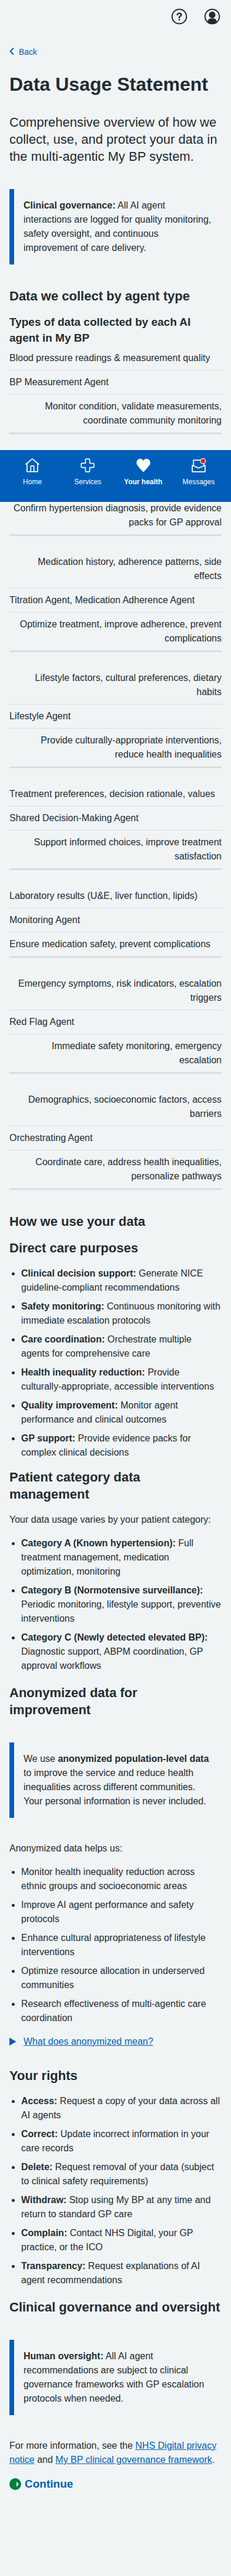
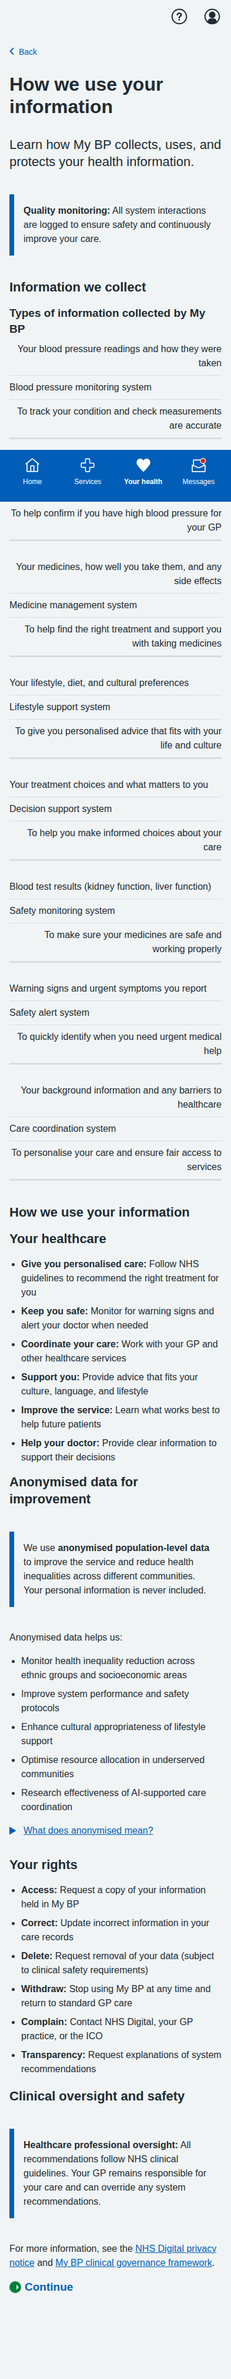
Update data usage and disclaimer pages with patient-friendly language and fixed alignment

Changed region(s): [[0.0, 0.0, 1.0, 0.9668]]

diff --git a/prototype/v1/app/views/pages/mybp/onboarding/data-usage.html b/prototype/v1/app/views/pages/mybp/onboarding/data-usage.html
@@ -1,7 +1,7 @@
 {% extends 'layout-app.html' %}
 
 {% set hub = "Your health" %}
-{% set pageHeading = "Data Usage Statement" %}
+{% set pageHeading = "How we use your information" %}
 
 {% block beforeContent %}
   {{ backLink({
@@ -15,139 +15,129 @@
     <div class="nhsuk-grid-column-two-thirds">
 
       <h1 class="nhsuk-heading-xl">
-        Data Usage Statement
+        How we use your information
       </h1>
 
       <p class="nhsuk-lede-text">
-        Overview of how we collect, use, and protect your information in My BP.
+        Learn how My BP collects, uses, and protects your health information.
       </p>
 
       <div class="nhsuk-inset-text">
         <span class="nhsuk-u-visually-hidden">Information: </span>
-        <p><strong>Clinical governance:</strong> All AI agent interactions are logged for quality monitoring, safety oversight, and continuous improvement of care delivery.</p>
+        <p><strong>Quality monitoring:</strong> All system interactions are logged to ensure safety and continuously improve your care.</p>
       </div>
 
-      <h2 class="nhsuk-heading-m">Data we collect by agent type</h2>
+      <h2 class="nhsuk-heading-m">Information we collect</h2>
 
       <div class="nhsuk-table-responsive">
         <table class="nhsuk-table">
-          <caption class="nhsuk-table__caption">Types of data collected by each AI agent in My BP</caption>
+          <caption class="nhsuk-table__caption">Types of information collected by My BP</caption>
           <thead role="rowgroup" class="nhsuk-table__head">
             <tr role="row">
               <th role="columnheader" class="" scope="col">
-                Data type
+                What we collect
               </th>
               <th role="columnheader" class="" scope="col">
-                Collecting agent
+                Who collects it
               </th>
               <th role="columnheader" class="" scope="col">
-                Purpose
+                Why we need it
               </th>
             </tr>
           </thead>
           <tbody class="nhsuk-table__body">
             <tr role="row" class="nhsuk-table__row">
-              <td class="nhsuk-table__cell">Blood pressure readings & measurement quality</td>
-              <td class="nhsuk-table__cell">BP Measurement Agent</td>
-              <td class="nhsuk-table__cell">Monitor condition, validate measurements, coordinate community monitoring</td>
+              <td class="nhsuk-table__cell">Your blood pressure readings and how they were taken</td>
+              <td class="nhsuk-table__cell">Blood pressure monitoring system</td>
+              <td class="nhsuk-table__cell">To track your condition and check measurements are accurate</td>
             </tr>
             <tr role="row" class="nhsuk-table__row">
-              <td class="nhsuk-table__cell">24-hour ABPM data & diagnostic evidence</td>
-              <td class="nhsuk-table__cell">Diagnosing Agent</td>
-              <td class="nhsuk-table__cell">Confirm hypertension diagnosis, provide evidence packs for GP approval</td>
+              <td class="nhsuk-table__cell">24-hour blood pressure monitoring results</td>
+              <td class="nhsuk-table__cell">Diagnostic support system</td>
+              <td class="nhsuk-table__cell">To help confirm if you have high blood pressure for your GP</td>
             </tr>
             <tr role="row" class="nhsuk-table__row">
-              <td class="nhsuk-table__cell">Medication history, adherence patterns, side effects</td>
-              <td class="nhsuk-table__cell">Titration Agent, Medication Adherence Agent</td>
-              <td class="nhsuk-table__cell">Optimize treatment, improve adherence, prevent complications</td>
+              <td class="nhsuk-table__cell">Your medicines, how well you take them, and any side effects</td>
+              <td class="nhsuk-table__cell">Medicine management system</td>
+              <td class="nhsuk-table__cell">To help find the right treatment and support you with taking medicines</td>
             </tr>
             <tr role="row" class="nhsuk-table__row">
-              <td class="nhsuk-table__cell">Lifestyle factors, cultural preferences, dietary habits</td>
-              <td class="nhsuk-table__cell">Lifestyle Agent</td>
-              <td class="nhsuk-table__cell">Provide culturally-appropriate interventions, reduce health inequalities</td>
+              <td class="nhsuk-table__cell">Your lifestyle, diet, and cultural preferences</td>
+              <td class="nhsuk-table__cell">Lifestyle support system</td>
+              <td class="nhsuk-table__cell">To give you personalised advice that fits with your life and culture</td>
             </tr>
             <tr role="row" class="nhsuk-table__row">
-              <td class="nhsuk-table__cell">Treatment preferences, decision rationale, values</td>
-              <td class="nhsuk-table__cell">Shared Decision-Making Agent</td>
-              <td class="nhsuk-table__cell">Support informed choices, improve treatment satisfaction</td>
+              <td class="nhsuk-table__cell">Your treatment choices and what matters to you</td>
+              <td class="nhsuk-table__cell">Decision support system</td>
+              <td class="nhsuk-table__cell">To help you make informed choices about your care</td>
             </tr>
             <tr role="row" class="nhsuk-table__row">
-              <td class="nhsuk-table__cell">Laboratory results (U&E, liver function, lipids)</td>
-              <td class="nhsuk-table__cell">Monitoring Agent</td>
-              <td class="nhsuk-table__cell">Ensure medication safety, prevent complications</td>
+              <td class="nhsuk-table__cell">Blood test results (kidney function, liver function)</td>
+              <td class="nhsuk-table__cell">Safety monitoring system</td>
+              <td class="nhsuk-table__cell">To make sure your medicines are safe and working properly</td>
             </tr>
             <tr role="row" class="nhsuk-table__row">
-              <td class="nhsuk-table__cell">Emergency symptoms, risk indicators, escalation triggers</td>
-              <td class="nhsuk-table__cell">Red Flag Agent</td>
-              <td class="nhsuk-table__cell">Immediate safety monitoring, emergency escalation</td>
+              <td class="nhsuk-table__cell">Warning signs and urgent symptoms you report</td>
+              <td class="nhsuk-table__cell">Safety alert system</td>
+              <td class="nhsuk-table__cell">To quickly identify when you need urgent medical help</td>
             </tr>
             <tr role="row" class="nhsuk-table__row">
-              <td class="nhsuk-table__cell">Demographics, socioeconomic factors, access barriers</td>
-              <td class="nhsuk-table__cell">Orchestrating Agent</td>
-              <td class="nhsuk-table__cell">Coordinate care, address health inequalities, personalize pathways</td>
+              <td class="nhsuk-table__cell">Your background information and any barriers to healthcare</td>
+              <td class="nhsuk-table__cell">Care coordination system</td>
+              <td class="nhsuk-table__cell">To personalise your care and ensure fair access to services</td>
             </tr>
           </tbody>
         </table>
       </div>
 
-      <h2 class="nhsuk-heading-m">How we use your data</h2>
+      <h2 class="nhsuk-heading-m">How we use your information</h2>
 
       <div class="nhsuk-care-card nhsuk-care-card--non-urgent">
         <div class="nhsuk-care-card__heading-container">
           <h3 class="nhsuk-care-card__heading">
             <span role="text">
-              <span class="nhsuk-u-visually-hidden">Information: </span>Direct care purposes
+              <span class="nhsuk-u-visually-hidden">Information: </span>Your healthcare
             </span>
           </h3>
           <span class="nhsuk-care-card__arrow" aria-hidden="true"></span>
         </div>
         <div class="nhsuk-care-card__content">
           <ul class="nhsuk-list nhsuk-list--bullet">
-            <li><strong>Clinical decision support:</strong> Generate NICE guideline-compliant recommendations</li>
-            <li><strong>Safety monitoring:</strong> Continuous monitoring with immediate escalation protocols</li>
-            <li><strong>Care coordination:</strong> Orchestrate multiple agents for comprehensive care</li>
-            <li><strong>Health inequality reduction:</strong> Provide culturally-appropriate, accessible interventions</li>
-            <li><strong>Quality improvement:</strong> Monitor agent performance and clinical outcomes</li>
-            <li><strong>GP support:</strong> Provide evidence packs for complex clinical decisions</li>
+            <li><strong>Give you personalised care:</strong> Follow NHS guidelines to recommend the right treatment for you</li>
+            <li><strong>Keep you safe:</strong> Monitor for warning signs and alert your doctor when needed</li>
+            <li><strong>Coordinate your care:</strong> Work with your GP and other healthcare services</li>
+            <li><strong>Support you:</strong> Provide advice that fits your culture, language, and lifestyle</li>
+            <li><strong>Improve the service:</strong> Learn what works best to help future patients</li>
+            <li><strong>Help your doctor:</strong> Provide clear information to support their decisions</li>
           </ul>
         </div>
       </div>
 
-      <h2 class="nhsuk-heading-m">Patient category data management</h2>
-
-      <p>Your data usage varies by your patient category:</p>
-
-      <ul class="nhsuk-list nhsuk-list--bullet">
-        <li><strong>Category A (Known hypertension):</strong> Full treatment management, medication optimization, monitoring</li>
-        <li><strong>Category B (Normotensive surveillance):</strong> Periodic monitoring, lifestyle support, preventive interventions</li>
-        <li><strong>Category C (Newly detected elevated BP):</strong> Diagnostic support, ABPM coordination, GP approval workflows</li>
-      </ul>
-
-      <h2 class="nhsuk-heading-m">Anonymized data for improvement</h2>
+      <h2 class="nhsuk-heading-m">Anonymised data for improvement</h2>
 
       <div class="nhsuk-inset-text">
         <span class="nhsuk-u-visually-hidden">Information: </span>
-        <p>We use <strong>anonymized population-level data</strong> to improve the service and reduce health inequalities across different communities. Your personal information is never included.</p>
+        <p>We use <strong>anonymised population-level data</strong> to improve the service and reduce health inequalities across different communities. Your personal information is never included.</p>
       </div>
 
-      <p>Anonymized data helps us:</p>
+      <p>Anonymised data helps us:</p>
 
       <ul class="nhsuk-list nhsuk-list--bullet">
         <li>Monitor health inequality reduction across ethnic groups and socioeconomic areas</li>
-        <li>Improve AI agent performance and safety protocols</li>
-        <li>Enhance cultural appropriateness of lifestyle interventions</li>
-        <li>Optimize resource allocation in underserved communities</li>
+        <li>Improve system performance and safety protocols</li>
+        <li>Enhance cultural appropriateness of lifestyle support</li>
+        <li>Optimise resource allocation in underserved communities</li>
         <li>Research effectiveness of AI-supported care coordination</li>
       </ul>
 
       <details class="nhsuk-details">
         <summary class="nhsuk-details__summary">
           <span class="nhsuk-details__summary-text">
-            What does anonymized mean?
+            What does anonymised mean?
           </span>
         </summary>
         <div class="nhsuk-details__text">
-          <p>Anonymized data means:</p>
+          <p>Anonymised data means:</p>
           <ul class="nhsuk-list nhsuk-list--bullet">
             <li>All personal identifiers are permanently removed using NHS Digital standards</li>
             <li>It cannot be linked back to you as an individual</li>
@@ -161,19 +151,19 @@
       <h2 class="nhsuk-heading-m">Your rights</h2>
 
       <ul class="nhsuk-list nhsuk-list--bullet">
-        <li><strong>Access:</strong> Request a copy of your data across all AI agents</li>
+        <li><strong>Access:</strong> Request a copy of your information held in My BP</li>
         <li><strong>Correct:</strong> Update incorrect information in your care records</li>
         <li><strong>Delete:</strong> Request removal of your data (subject to clinical safety requirements)</li>
         <li><strong>Withdraw:</strong> Stop using My BP at any time and return to standard GP care</li>
         <li><strong>Complain:</strong> Contact NHS Digital, your GP practice, or the ICO</li>
-        <li><strong>Transparency:</strong> Request explanations of AI agent recommendations</li>
+        <li><strong>Transparency:</strong> Request explanations of system recommendations</li>
       </ul>
 
-      <h2 class="nhsuk-heading-m">Clinical governance and oversight</h2>
+      <h2 class="nhsuk-heading-m">Clinical oversight and safety</h2>
 
       <div class="nhsuk-inset-text">
         <span class="nhsuk-u-visually-hidden">Information: </span>
-        <p><strong>Human oversight:</strong> All AI agent recommendations are subject to clinical governance frameworks with GP escalation protocols when needed.</p>
+        <p><strong>Healthcare professional oversight:</strong> All recommendations follow NHS clinical guidelines. Your GP remains responsible for your care and can override any system recommendations.</p>
       </div>
 
       <p>For more information, see the <a href="#" class="nhsuk-link">NHS Digital privacy notice</a> and <a href="#" class="nhsuk-link">My BP clinical governance framework</a>.</p>

diff --git a/prototype/v1/app/views/pages/mybp/onboarding/disclaimer.html b/prototype/v1/app/views/pages/mybp/onboarding/disclaimer.html
@@ -22,7 +22,7 @@
         <h2 class="nhsuk-warning-callout__label">
           <span role="text">
             <span class="nhsuk-u-visually-hidden">Important: </span>
-            ⚠ SIMULATION ONLY - NOT FOR CLINICAL USE ⚠
+            SIMULATION ONLY - NOT FOR CLINICAL USE
           </span>
         </h2>
         <p><strong>This is a demonstration system using dummy data only.</strong> This tool does not have medical device approval and is not intended for real-world clinical decision-making. All patient data, clinical scenarios, and outcomes shown are simulated for demonstration purposes only.</p>
